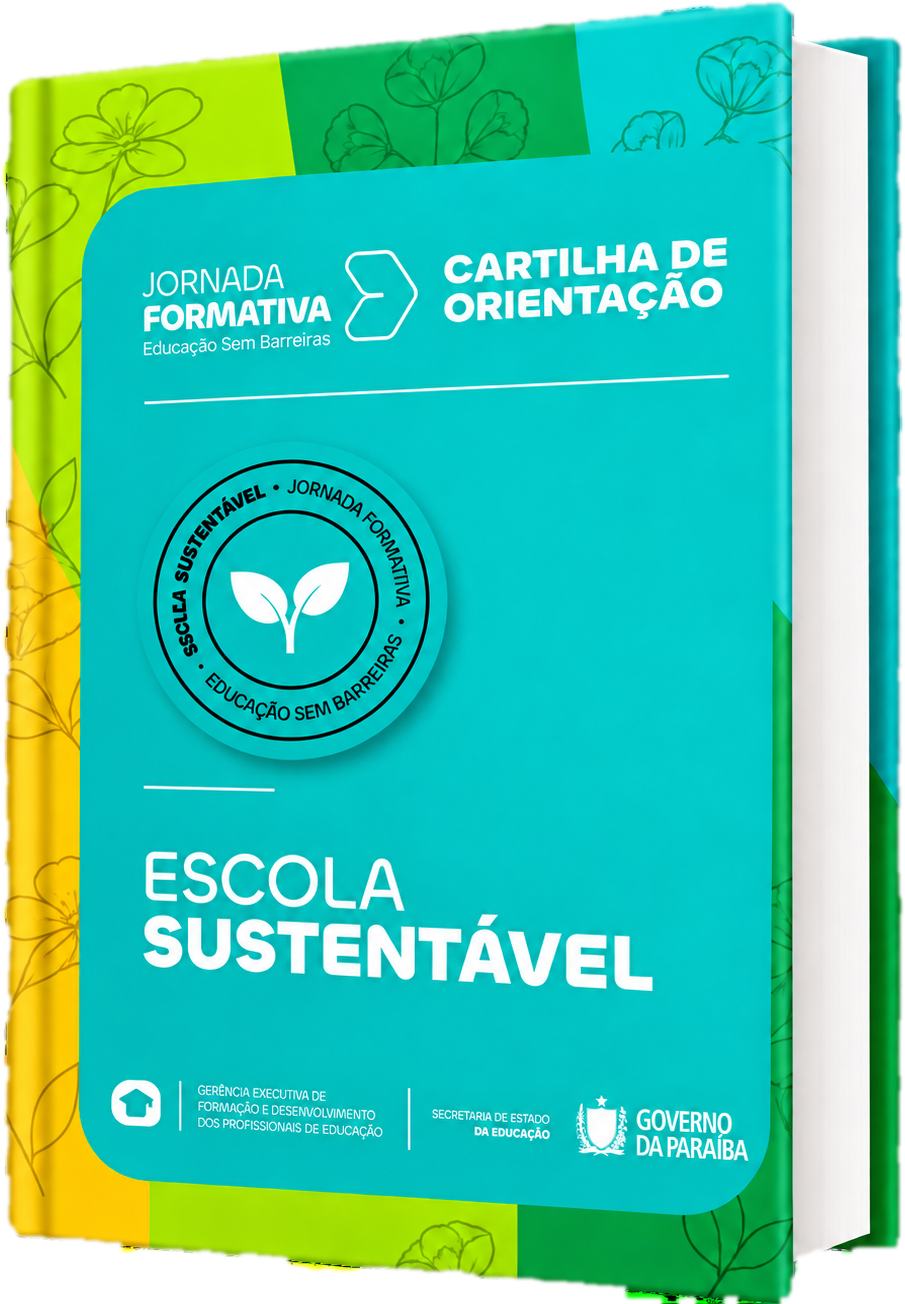
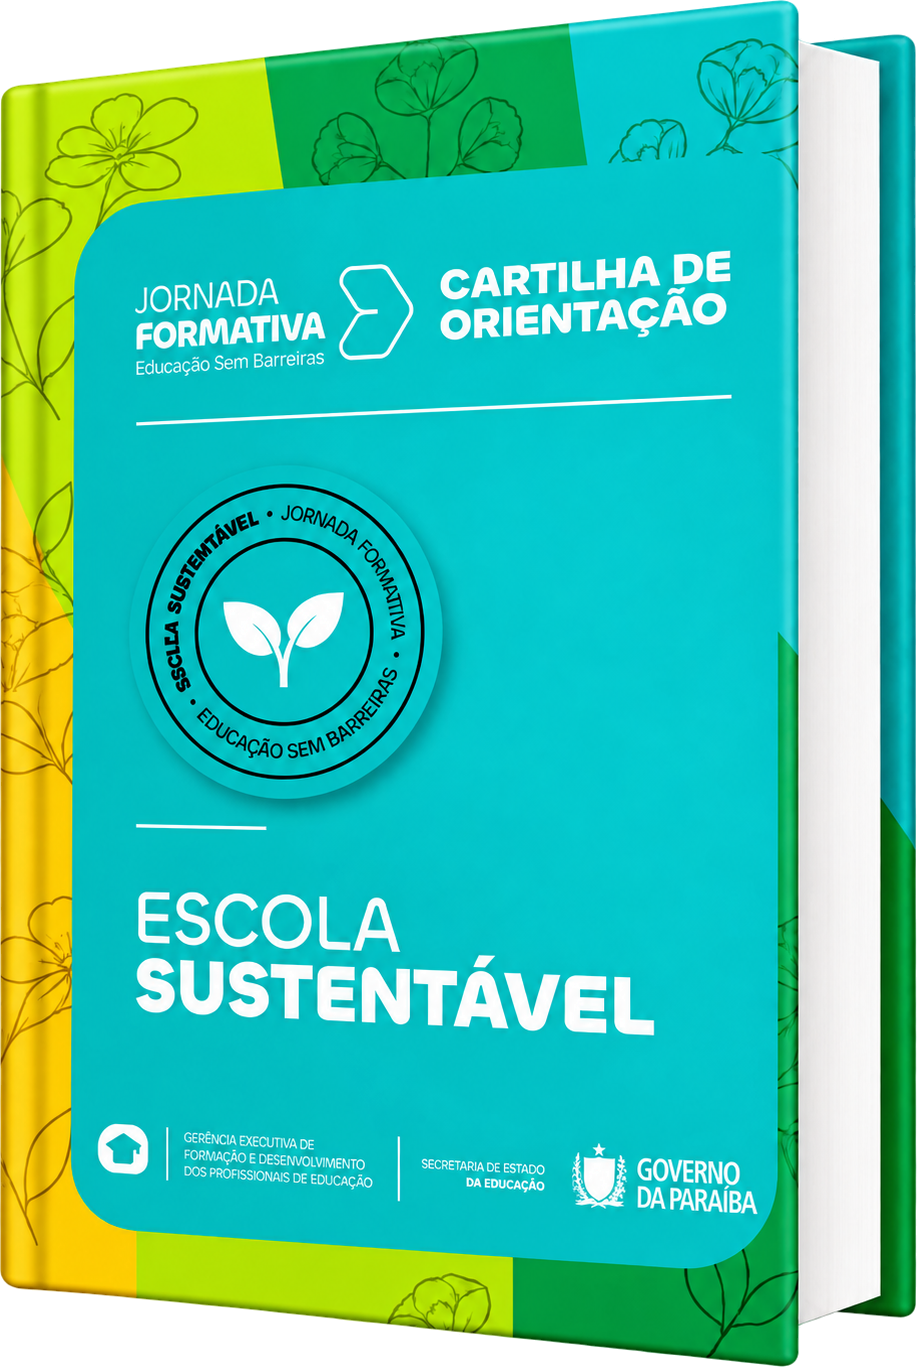
Substitui livro da Escola Sustentável (bordas limpas) e evita cache da imagem

diff --git a/Jornada/Main.dc.html b/Jornada/Main.dc.html
@@ -227,7 +227,7 @@ class Component extends DCLogic {
         ringBold: 'ENFRENTAMENTO À VIOLÊNCIA CONTRA A MULHER', ringLight: ' • JORNADA FORMATIVA • EDUCAÇÃO SEM BARREIRAS •', ring: 'ENFRENTAMENTO À VIOLÊNCIA CONTRA A MULHER • JORNADA FORMATIVA • EDUCAÇÃO SEM BARREIRAS •' },
       { id: 'sust', name: 'Escola Sustentável', badge: '#77C3A5', bg: '#0B7F76', ox: '50%', oy: '75%',
         icon: './assets/54fbd6e37ca4c5343bacdf5dfc4ec5c0.png', iconH: '52px', fs: '11.2',
-        lockup: './assets/1bbe421ed83a230166aa00e60dedcc0c.png', book: './assets/livro-escola-sustentavel.png',
+        lockup: './assets/1bbe421ed83a230166aa00e60dedcc0c.png', book: './assets/livro-escola-sustentavel.png?v=2',
         qr: './assets/qr-escola-sustentavel.png', link: 'https://drive.google.com/file/d/1DgSeX4nA9HhDaE5EtaRYAthuB8oURTzI/view',
         ringBold: 'ESCOLA SUSTENTÁVEL', ringLight: ' • JORNADA FORMATIVA • EDUCAÇÃO SEM BARREIRAS •', ring: 'ESCOLA SUSTENTÁVEL • JORNADA FORMATIVA • EDUCAÇÃO SEM BARREIRAS •' }
     ];

diff --git a/jornada.js b/jornada.js
@@ -19,7 +19,7 @@
       ringBold: 'ENFRENTAMENTO À VIOLÊNCIA CONTRA A MULHER', ringLight: ' • JORNADA FORMATIVA • EDUCAÇÃO SEM BARREIRAS •', ring: 'ENFRENTAMENTO À VIOLÊNCIA CONTRA A MULHER • JORNADA FORMATIVA • EDUCAÇÃO SEM BARREIRAS •' },
     { id: 'sust', name: 'Escola Sustentável', badge: '#77C3A5', bg: '#0B7F76', ox: '50%', oy: '75%',
       icon: A + '54fbd6e37ca4c5343bacdf5dfc4ec5c0.png', iconH: '52px', fs: '11.2',
-      lockup: A + '1bbe421ed83a230166aa00e60dedcc0c.png', book: A + 'livro-escola-sustentavel.png',
+      lockup: A + '1bbe421ed83a230166aa00e60dedcc0c.png', book: A + 'livro-escola-sustentavel.png?v=2',
       qr: A + 'qr-escola-sustentavel.png', link: 'https://drive.google.com/file/d/1DgSeX4nA9HhDaE5EtaRYAthuB8oURTzI/view',
       ringBold: 'ESCOLA SUSTENTÁVEL', ringLight: ' • JORNADA FORMATIVA • EDUCAÇÃO SEM BARREIRAS •', ring: 'ESCOLA SUSTENTÁVEL • JORNADA FORMATIVA • EDUCAÇÃO SEM BARREIRAS •' }
   ];
